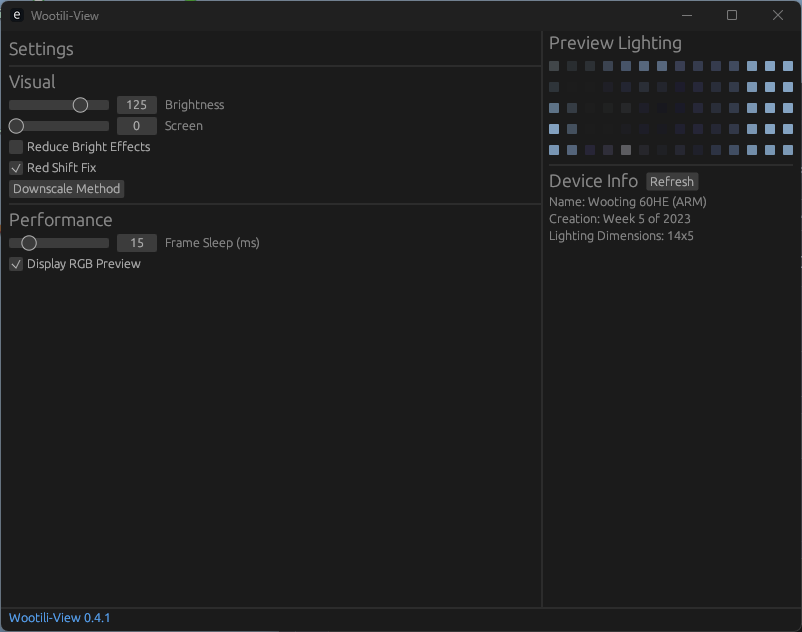
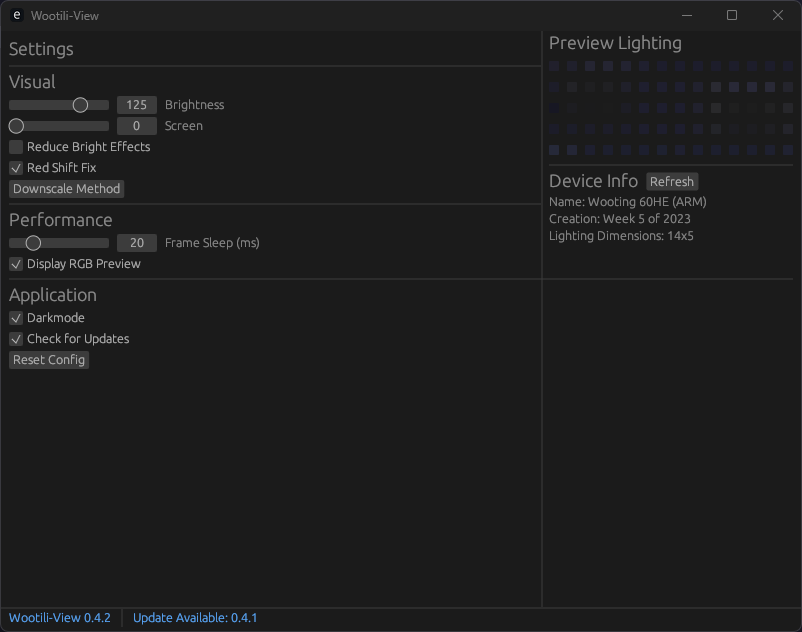
Added new config settings and config error handling 🐜

diff --git a/src/main.rs b/src/main.rs
@@ -80,6 +80,8 @@ struct MyApp {
     downscale_method: FilterType,
     frame_sleep: u64,
     red_shift_fix: bool,
+    dark_mode: bool,
+    check_updates: bool,
 }
 
 impl Default for MyApp {
@@ -97,6 +99,8 @@ impl Default for MyApp {
             downscale_method: FilterType::Triangle,
             frame_sleep: 10,
             red_shift_fix: false,
+            dark_mode: true,
+            check_updates: true,
         }
     }
 }
@@ -123,7 +127,21 @@ impl eframe::App for MyApp {
                 }
             };
 
-            let config = read_config();
+            let config = match read_config() {
+                Some(config) => config,
+                None => {
+                    self.toasts
+                        .error("Unable to read config file")
+                        .set_duration(Some(std::time::Duration::from_secs(5)));
+                    reset_config();
+
+                    self.toasts
+                        .warning("Config file has been reset due to a config format error")
+                        .set_duration(Some(std::time::Duration::from_secs(5)));
+
+                    read_config().unwrap()
+                }
+            };
 
             self.brightness = config.brightness;
             self.reduce_bright_effects = config.reduce_bright_effects;
@@ -132,6 +150,14 @@ impl eframe::App for MyApp {
             self.downscale_method = downscale_index_to_filter(config.downscale_method_index);
             self.frame_sleep = config.frame_sleep;
             self.red_shift_fix = config.red_shift_fix;
+            self.dark_mode = config.dark_mode;
+            self.check_updates = config.check_updates;
+
+            if self.dark_mode {
+                ctx.set_visuals(egui::Visuals::dark());
+            } else {
+                ctx.set_visuals(egui::Visuals::light());
+            }
 
             self.init = false;
         }
@@ -177,18 +203,28 @@ impl eframe::App for MyApp {
             ui.separator();
 
             ui.heading("Visual");
-            if ui.add(egui::Slider::new(&mut self.brightness, 50..=150).text("Brightness")).on_hover_text("Adjusts the brightness of the lighting").changed() {
-                change_config_option(ConfigChange::Brightness(self.brightness));
+            if ui.add(egui::Slider::new(&mut self.brightness, 50..=150).text("Brightness")).on_hover_text("Adjusts the brightness of the lighting").changed() && save_config_option(ConfigChange::Brightness(self.brightness)).is_err() {
+                self.toasts
+            .warning("Config file has been reset due to a config format error")
+            .set_duration(Some(std::time::Duration::from_secs(5)));
             }
             if ui.add(egui::Slider::new(&mut self.screen, 0..=Screen::all().unwrap().len() - 1).text("Screen")).on_hover_text("Select the screen to capture").changed() {
-                change_config_option(ConfigChange::Screen(self.screen));
+                if save_config_option(ConfigChange::Screen(self.screen)).is_err() {
+                    self.toasts
+                        .warning("Config file has been reset due to a config format error")
+                        .set_duration(Some(std::time::Duration::from_secs(5)));
+                }
                 *SCREEN_INDEX.write().unwrap() = self.screen;
             }
-            if ui.checkbox(&mut self.reduce_bright_effects, "Reduce Bright Effects").on_hover_text("Reduces brightness when the screen is very bright").changed() {
-                change_config_option(ConfigChange::ReduceBrightEffects(self.reduce_bright_effects));
+            if ui.checkbox(&mut self.reduce_bright_effects, "Reduce Bright Effects").on_hover_text("Reduces brightness when the screen is very bright").changed() && save_config_option(ConfigChange::ReduceBrightEffects(self.reduce_bright_effects)).is_err() {
+                self.toasts
+                    .warning("Config file has been reset due to a config format error")
+                    .set_duration(Some(std::time::Duration::from_secs(5)));
             }
-            if ui.checkbox(&mut self.red_shift_fix, "Red Shift Fix").on_hover_text("Fixes the red shift/hue issue on some Wooting keyboards due to the stock keycaps or from custom switches like the Geon Raptor HE").changed() {
-                change_config_option(ConfigChange::RedShiftFix(self.red_shift_fix));
+            if ui.checkbox(&mut self.red_shift_fix, "Red Shift Fix").on_hover_text("Fixes the red shift/hue issue on some Wooting keyboards due to the stock keycaps or from custom switches like the Geon Raptor HE").changed() && save_config_option(ConfigChange::RedShiftFix(self.red_shift_fix)).is_err() {
+                self.toasts
+                    .warning("Config file has been reset due to a config format error")
+                    .set_duration(Some(std::time::Duration::from_secs(5)));
             }
             ui.menu_button("Downscale Method", |ui| {
                 downscale_label(ui, &mut self.downscale_method, FilterType::Nearest, "Nearest", "Fast and picks on up on small details but is inconsistent");
@@ -201,17 +237,23 @@ impl eframe::App for MyApp {
 
             ui.heading("Performance");
             if ui.add(egui::Slider::new(&mut self.frame_sleep, 0..=100).text("Frame Sleep (ms)")).on_hover_text("Waits the specified amount of time before recapturing a new frame").changed() {
-                change_config_option(ConfigChange::FrameSleep(self.frame_sleep));
+                if save_config_option(ConfigChange::FrameSleep(self.frame_sleep)).is_err() {
+                    self.toasts
+                        .warning("Config file has been reset due to a config format error")
+                        .set_duration(Some(std::time::Duration::from_secs(5)));
+                }
                 *FRAME_SLEEP.write().unwrap() = self.frame_sleep;
             }
 
             let allow_preview = frame_rgb_size.0 != 0 && frame_rgb_size.1 != 0;
-            if ui.add_enabled(allow_preview, egui::Checkbox::new(&mut self.display_rgb_preview, "Display RGB Preview")).on_hover_text("Displays a preview of the lighting, this can be disabled to improve performance").changed() {
-                change_config_option(ConfigChange::DisplayRgbPreview(self.display_rgb_preview));
+            if ui.add_enabled(allow_preview, egui::Checkbox::new(&mut self.display_rgb_preview, "Display RGB Preview")).on_hover_text("Displays a preview of the lighting, this can be disabled to improve performance").changed() && save_config_option(ConfigChange::DisplayRgbPreview(self.display_rgb_preview)).is_err() {
+                self.toasts
+                    .warning("Config file has been reset due to a config format error")
+                    .set_duration(Some(std::time::Duration::from_secs(5)));
             }
 
             egui::TopBottomPanel::bottom("footer").show(ctx, |ui| {
-                version_footer(ui);
+                version_footer(ui, self.check_updates);
             });
 
             egui::SidePanel::right("lighting_preview_panel").show(ctx, |ui| {
@@ -221,6 +263,51 @@ impl eframe::App for MyApp {
                 display_device_info(ui, &mut self.toasts, &mut self.device_name, &mut self.device_creation, &mut self.init);
                 display_lighting_dimensions(ui, frame_rgb_size);
             });
+            ui.separator();
+
+            ui.heading("Application");
+            if ui.checkbox(&mut self.dark_mode, "Darkmode").on_hover_text("Enables darkmode").changed() {
+                if save_config_option(ConfigChange::Darkmode(self.dark_mode)).is_err() {
+                    self.toasts
+                        .warning("Config file has been reset due to a config format error")
+                        .set_duration(Some(std::time::Duration::from_secs(5)));
+                }
+
+                if self.dark_mode {
+                    ctx.set_visuals(egui::Visuals::dark());
+                } else {
+                    ctx.set_visuals(egui::Visuals::light());
+                }
+            }
+            if ui.checkbox(&mut self.check_updates, "Check for Updates").on_hover_text("Checks for updates on startup, wont apply to current session").changed() && save_config_option(ConfigChange::CheckUpdates(self.check_updates)).is_err() {
+                self.toasts
+                    .warning("Config file has been reset due to a config format error")
+                    .set_duration(Some(std::time::Duration::from_secs(5)));
+            }
+            if ui.button("Reset Config").on_hover_text("Resets the config to the default values").clicked() {
+                reset_config();
+                self.toasts
+                    .info("Config file has been reset")
+                    .set_duration(Some(std::time::Duration::from_secs(1)));
+
+                let new_config = read_config().unwrap();
+
+                self.brightness = new_config.brightness;
+                self.reduce_bright_effects = new_config.reduce_bright_effects;
+                self.screen = new_config.screen;
+                self.display_rgb_preview = new_config.display_rgb_preview;
+                self.downscale_method = downscale_index_to_filter(new_config.downscale_method_index);
+                self.frame_sleep = new_config.frame_sleep;
+                self.red_shift_fix = new_config.red_shift_fix;
+                self.dark_mode = new_config.dark_mode;
+                self.check_updates = new_config.check_updates;
+
+                if self.dark_mode {
+                    ctx.set_visuals(egui::Visuals::dark());
+                } else {
+                    ctx.set_visuals(egui::Visuals::light());
+                }
+            }
         });
 
         self.toasts.show(ctx);
@@ -230,15 +317,55 @@ impl eframe::App for MyApp {
     }
 
     fn on_exit(&mut self, _gl: Option<&eframe::glow::Context>) {
-        change_config_option(ConfigChange::Brightness(self.brightness));
-        change_config_option(ConfigChange::ReduceBrightEffects(
+        if save_config_option(ConfigChange::Brightness(self.brightness)).is_err() {
+            self.toasts
+                .warning("Config file has been reset due to a config format error")
+                .set_duration(Some(std::time::Duration::from_secs(5)));
+        }
+        if save_config_option(ConfigChange::ReduceBrightEffects(
             self.reduce_bright_effects,
-        ));
-        change_config_option(ConfigChange::Screen(self.screen));
-        change_config_option(ConfigChange::DisplayRgbPreview(self.display_rgb_preview));
-        change_config_option(ConfigChange::DownscaleMethod(self.downscale_method));
-        change_config_option(ConfigChange::FrameSleep(self.frame_sleep));
-        change_config_option(ConfigChange::RedShiftFix(self.red_shift_fix));
+        ))
+        .is_err()
+        {
+            self.toasts
+                .warning("Config file has been reset due to a config format error")
+                .set_duration(Some(std::time::Duration::from_secs(5)));
+        }
+        if save_config_option(ConfigChange::Screen(self.screen)).is_err() {
+            self.toasts
+                .warning("Config file has been reset due to a config format error")
+                .set_duration(Some(std::time::Duration::from_secs(5)));
+        }
+        if save_config_option(ConfigChange::DisplayRgbPreview(self.display_rgb_preview)).is_err() {
+            self.toasts
+                .warning("Config file has been reset due to a config format error")
+                .set_duration(Some(std::time::Duration::from_secs(5)));
+        }
+        if save_config_option(ConfigChange::DownscaleMethod(self.downscale_method)).is_err() {
+            self.toasts
+                .warning("Config file has been reset due to a config format error")
+                .set_duration(Some(std::time::Duration::from_secs(5)));
+        }
+        if save_config_option(ConfigChange::FrameSleep(self.frame_sleep)).is_err() {
+            self.toasts
+                .warning("Config file has been reset due to a config format error")
+                .set_duration(Some(std::time::Duration::from_secs(5)));
+        }
+        if save_config_option(ConfigChange::RedShiftFix(self.red_shift_fix)).is_err() {
+            self.toasts
+                .warning("Config file has been reset due to a config format error")
+                .set_duration(Some(std::time::Duration::from_secs(5)));
+        }
+        if save_config_option(ConfigChange::Darkmode(self.dark_mode)).is_err() {
+            self.toasts
+                .warning("Config file has been reset due to a config format error")
+                .set_duration(Some(std::time::Duration::from_secs(5)));
+        }
+        if save_config_option(ConfigChange::CheckUpdates(self.check_updates)).is_err() {
+            self.toasts
+                .warning("Config file has been reset due to a config format error")
+                .set_duration(Some(std::time::Duration::from_secs(5)));
+        }
         wooting::exit_rgb();
     }
 }

diff --git a/src/config.rs b/src/config.rs
@@ -18,11 +18,13 @@ pub struct Config {
     pub downscale_method_index: u8,
     pub frame_sleep: u64,
     pub red_shift_fix: bool,
+    pub dark_mode: bool,
+    pub check_updates: bool,
 }
 
-pub static CONFIG_VERSION: u8 = 1;
+pub static CONFIG_VERSION: u8 = 2;
 
-pub fn read_config() -> Config {
+pub fn read_config() -> Option<Config> {
     let config_file = File::open(crate::paths::config_path().join("config.ron"))
         .log_expect(LogImportance::Error, "Unable to open config file");
     let config: Config = match from_reader(config_file) {
@@ -36,11 +38,11 @@ pub fn read_config() -> Config {
                 ),
             });
 
-            std::process::exit(0);
+            return None;
         }
     };
 
-    config
+    Some(config)
 }
 
 pub fn gen_config() {
@@ -53,6 +55,8 @@ pub fn gen_config() {
         downscale_method_index: 1,
         frame_sleep: 10,
         red_shift_fix: false,
+        dark_mode: true,
+        check_updates: true,
     };
 
     let config = PrettyConfig::new()
@@ -89,10 +93,23 @@ pub enum ConfigChange {
     DownscaleMethod(FilterType),
     FrameSleep(u64),
     RedShiftFix(bool),
+    Darkmode(bool),
+    CheckUpdates(bool),
 }
 
-pub fn change_config_option(new: ConfigChange) {
-    let mut data = read_config();
+pub fn save_config_option(new: ConfigChange) -> Result<(), ()> {
+    let mut data = match read_config() {
+        Some(x) => x,
+        None => {
+            log_this(LogData {
+                importance: LogImportance::Error,
+                message: "Unable to read config file, resetting config".to_string(),
+            });
+            reset_config();
+
+            return Err(());
+        }
+    };
 
     match new {
         ConfigChange::Brightness(x) => data.brightness = x,
@@ -104,6 +121,8 @@ pub fn change_config_option(new: ConfigChange) {
         }
         ConfigChange::FrameSleep(x) => data.frame_sleep = x,
         ConfigChange::RedShiftFix(x) => data.red_shift_fix = x,
+        ConfigChange::Darkmode(x) => data.dark_mode = x,
+        ConfigChange::CheckUpdates(x) => data.check_updates = x,
     }
 
     let config = PrettyConfig::new()
@@ -115,6 +134,15 @@ pub fn change_config_option(new: ConfigChange) {
         .log_expect(LogImportance::Error, "Unable to serialize config");
     std::fs::write(crate::paths::config_path().join("config.ron"), config_str)
         .log_expect(LogImportance::Error, "Unable to write config file");
+
+    Ok(())
+}
+
+pub fn reset_config() {
+    std::fs::remove_file(crate::paths::config_path().join("config.ron"))
+        .log_expect(LogImportance::Error, "Unable to delete config file");
+
+    gen_config();
 }
 
 pub fn downscale_index_to_filter(index: u8) -> FilterType {

diff --git a/src/ui.rs b/src/ui.rs
@@ -5,7 +5,7 @@ use reqwest::header::{HeaderMap, USER_AGENT};
 use scorched::{log_this, LogData};
 use std::sync::OnceLock;
 
-use crate::{change_config_option, wooting, ConfigChange, DOWNSCALE_METHOD, RGB_SIZE};
+use crate::{save_config_option, wooting, ConfigChange, DOWNSCALE_METHOD, RGB_SIZE};
 
 pub fn downscale_label(
     ui: &mut Ui,
@@ -19,7 +19,9 @@ pub fn downscale_label(
         .on_hover_text(hover_text)
         .clicked()
     {
-        change_config_option(ConfigChange::DownscaleMethod(new));
+        if save_config_option(ConfigChange::DownscaleMethod(new)).is_err() {
+            return;
+        }
         DOWNSCALE_METHOD.write().unwrap().clone_from(&new);
         *current = new;
     }
@@ -144,7 +146,7 @@ fn get_lastest_ver() -> String {
 
 static LATEST_VER: OnceLock<String> = OnceLock::new();
 
-pub fn version_footer(ui: &mut egui::Ui) {
+pub fn version_footer(ui: &mut egui::Ui, check_for_updates: bool) {
     ui.horizontal(|ui| {
         ui.hyperlink_to(
             format!("Wootili-View {}", env!("CARGO_PKG_VERSION")),
@@ -153,6 +155,10 @@ pub fn version_footer(ui: &mut egui::Ui) {
                 env!("CARGO_PKG_VERSION")
             ),
         );
+
+        if !check_for_updates {
+            return;
+        }
 
         let latest_ver = LATEST_VER.get_or_init(get_lastest_ver);
 
